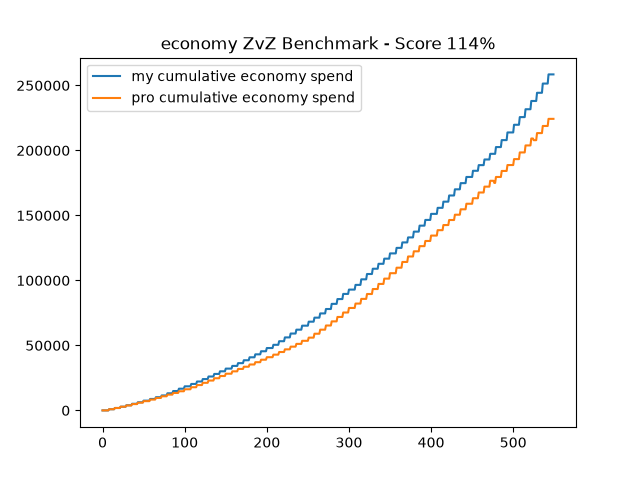
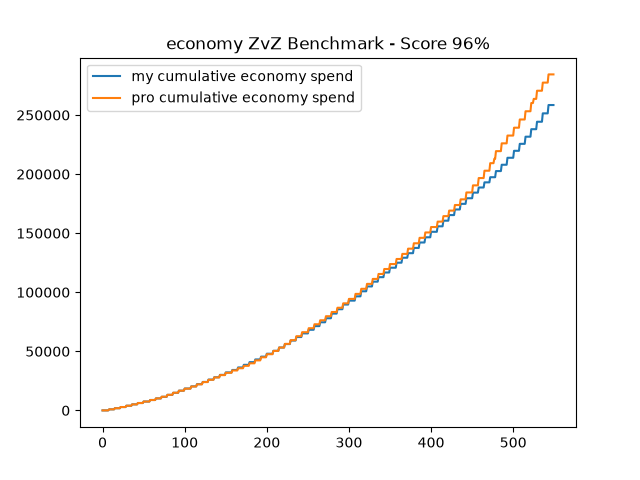
save

diff --git a/src/25_transform_economy.py b/src/25_transform_economy.py
@@ -24,7 +24,7 @@ for game_number in pro_df.game_number.unique():
             data_i.append(i)
             cumulative_total.append(current_cumulative)
             i += 1
-        current_cumulative += input_data2[j]
+        current_cumulative = input_data2[j]
 
     pro_data_cumulative_df = pd.DataFrame()
     pro_data_cumulative_df['second'] = data_i
@@ -52,7 +52,7 @@ for game_number in my_df.game_number.unique():
             data_i.append(i)
             cumulative_total.append(current_cumulative)
             i += 1
-        current_cumulative += input_data2[j]
+        current_cumulative = input_data2[j]
 
     my_data_cumulative_df = pd.DataFrame()
     my_data_cumulative_df['second'] = data_i

diff --git a/src/29_transform_army.py b/src/29_transform_army.py
@@ -24,7 +24,7 @@ for game_number in pro_df.game_number.unique():
             data_i.append(i)
             cumulative_total.append(current_cumulative)
             i += 1
-        current_cumulative += input_data2[j]
+        current_cumulative = input_data2[j]
 
     pro_data_cumulative_df = pd.DataFrame()
     pro_data_cumulative_df['second'] = data_i
@@ -52,7 +52,7 @@ for game_number in my_df.game_number.unique():
             data_i.append(i)
             cumulative_total.append(current_cumulative)
             i += 1
-        current_cumulative += input_data2[j]
+        current_cumulative = input_data2[j]
 
     my_data_cumulative_df = pd.DataFrame()
     my_data_cumulative_df['second'] = data_i

diff --git a/src/33_transform_tech.py b/src/33_transform_tech.py
@@ -24,7 +24,7 @@ for game_number in pro_df.game_number.unique():
             data_i.append(i)
             cumulative_total.append(current_cumulative)
             i += 1
-        current_cumulative += input_data2[j]
+        current_cumulative = input_data2[j]
 
     pro_data_cumulative_df = pd.DataFrame()
     pro_data_cumulative_df['second'] = data_i
@@ -52,7 +52,7 @@ for game_number in my_df.game_number.unique():
             data_i.append(i)
             cumulative_total.append(current_cumulative)
             i += 1
-        current_cumulative += input_data2[j]
+        current_cumulative = input_data2[j]
 
     my_data_cumulative_df = pd.DataFrame()
     my_data_cumulative_df['second'] = data_i
